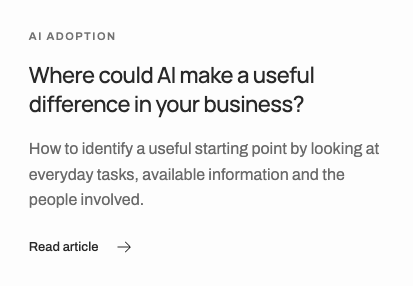
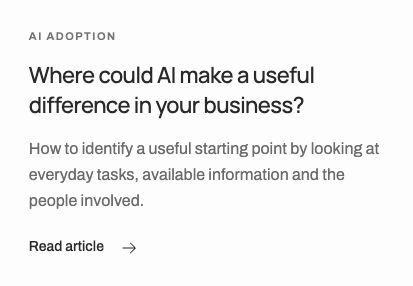
Set button labels to 14px across the prototype

diff --git a/design-library.css b/design-library.css
@@ -1,6 +1,6 @@
 *{box-sizing:border-box}html{scroll-padding:80px}body{margin:0;background:#fdfdfd;color:#292929;font:16px/1.5 Archivo,Arial,sans-serif}h1,h2,h3,p,dl,dd{margin:0}h1,h2,h3{font-family:Manrope,Arial,sans-serif}a{color:inherit}a:focus-visible,summary:focus-visible{outline:3px solid #525252;outline-offset:4px}header,main,footer{max-width:1450px;margin:auto;padding-inline:clamp(20px,5vw,84px)}header{height:84px;display:flex;align-items:center;justify-content:space-between;border-bottom:1px solid #dcdcdc}header img{width:114px}header span,.kicker,th,.role{font-size:11px;letter-spacing:1.5px;text-transform:uppercase;font-weight:600}.intro{display:grid;grid-template-columns:1.6fr 1fr;gap:40px;align-items:center;padding:64px 0 50px}.intro h1{font-size:clamp(44px,5vw,72px);line-height:1.03;letter-spacing:-3px;max-width:730px}.intro p{margin-top:18px;color:#6a6a6a;max-width:565px}.corners{display:flex;align-items:end;justify-content:end;gap:12px}.corner{width:clamp(68px,7vw,108px);text-align:center;font:12px/2 monospace}.corner i{display:block;background:#292929;height:78px}.corner:nth-child(2) i{background:#7a7a7a}.corner:nth-child(3) i{background:#dcdcdc}.tabs{position:sticky;top:0;z-index:3;background:#fdfdfdf5;border-block:1px solid #dcdcdc;display:flex;gap:32px;overflow:auto}.tabs a{padding:15px 0;text-decoration:none;white-space:nowrap;font-size:14px}.tabs a:hover{ text-decoration:underline}.block{padding:48px 0;border-bottom:1px solid #dcdcdc}.block h2{font-size:36px;letter-spacing:-1.6px;line-height:1.2;margin-bottom:24px}.palette{display:grid;grid-template-columns:repeat(6,1fr);gap:12px}.swatch{height:66px;border:1px solid #0001;border-radius:12px;margin-bottom:10px}.palette strong,.palette code,.palette small{display:block}.palette small,.note,dt{color:#666}code{font-size:12px;overflow-wrap:anywhere}.palette code{margin:4px 0}.type,.measures{width:100%;border-collapse:collapse;text-align:left}td,th{padding:12px 12px 12px 0;border-bottom:1px solid #ddd}td{font-size:14px}th{color:#666}.scroller{overflow:auto}.rule{display:inline-block;height:8px;background:#555;vertical-align:middle;margin-right:10px}.radii{display:flex;flex-wrap:wrap;gap:26px}.radius{flex:1;min-width:135px}.radius i{display:block;width:76px;height:52px;background:#eaeaea;border:1px solid #aaa;margin-bottom:12px}.radius p{font-size:14px;color:#666}.note{margin:-10px 0 22px}.cards{display:grid;grid-template-columns:repeat(3,minmax(0,1fr));gap:20px;align-items:start}.card{border:1px solid #dcdcdc;border-radius:18px;overflow:hidden}.preview{height:168px;background:#f3f3f3;display:grid;place-items:center;padding:18px;border-bottom:1px solid #ddd}.preview img{max-width:100%;max-height:132px;object-fit:contain}.spec{padding:18px}.spec h3{font-size:20px;letter-spacing:-.6px}.role{color:#666;font-size:10px;margin-bottom:5px}.spec dl{display:grid;grid-template-columns:auto 1fr;gap:6px 12px;font-size:13px;margin:14px 0}.spec dd{text-align:right;overflow-wrap:anywhere}summary,.spec a{font-size:13px;cursor:pointer}.spec a{display:inline-block;margin-top:12px}.family{font-size:23px;margin:28px 0 15px}.source{margin-top:20px}footer{padding-block:28px;color:#666;font-size:13px}@media(max-width:880px){.cards{grid-template-columns:repeat(2,minmax(0,1fr))}.palette{grid-template-columns:repeat(3,1fr)}.corners{display:none}.intro{display:block}}@media(max-width:580px){.cards{grid-template-columns:1fr}.tabs{gap:20px}.intro{padding:36px 0}.block{padding:32px 0}.palette{grid-template-columns:repeat(2,1fr)}}
 
-.tertiary-example{display:inline-flex;align-items:center;gap:10px;padding:8px 0;font:500 13px/1.6 Archivo,Arial,sans-serif;color:#292929;text-decoration:none}
+.tertiary-example{display:inline-flex;align-items:center;gap:10px;padding:8px 0;font:500 14px/1.3rem Archivo,Arial,sans-serif;color:#292929;text-decoration:none}
 .tertiary-example svg{width:16px;height:16px;margin-left:4px}
 .tertiary-example:hover{text-decoration:underline;text-underline-offset:5px}
 .block{padding-block:64px}

diff --git a/design-library.html b/design-library.html
@@ -30,6 +30,7 @@
 <tr><td data-label="Text style"><span style="font:400 16px/1.15 Archivo">Lead</span></td><td data-label="Token"><code>--type-lead</code></td><td data-label="Desktop rule">16px</td><td data-label="Mobile rule">16px</td></tr>
 <tr><td data-label="Text style"><span style="font:400 16px/1.15 Archivo">Body</span></td><td data-label="Token"><code>--type-body</code></td><td data-label="Desktop rule">16px</td><td data-label="Mobile rule">16px</td></tr>
 <tr><td data-label="Text style"><span style="font:400 14px/1.15 Archivo">Small</span></td><td data-label="Token"><code>--type-small</code></td><td data-label="Desktop rule">14px</td><td data-label="Mobile rule">14px</td></tr>
+<tr><td data-label="Text style"><span style="font:500 14px/1.15 Archivo">Button</span></td><td data-label="Token"><code>--type-button</code></td><td data-label="Desktop rule">14px</td><td data-label="Mobile rule">14px</td></tr>
 <tr><td data-label="Text style"><span style="font:400 13px/1.15 Archivo">Action</span></td><td data-label="Token"><code>--type-action</code></td><td data-label="Desktop rule">13px</td><td data-label="Mobile rule">13px</td></tr>
 <tr><td data-label="Text style"><span style="font:400 12px/1.15 Archivo">Caption</span></td><td data-label="Token"><code>--type-caption</code></td><td data-label="Desktop rule">12px</td><td data-label="Mobile rule">12px</td></tr>
 <tr><td data-label="Text style"><span style="font:400 11px/1.15 Archivo">Label</span></td><td data-label="Token"><code>--type-label</code></td><td data-label="Desktop rule">11px</td><td data-label="Mobile rule">11px</td></tr>
@@ -79,7 +80,7 @@
 <dt>Layout gap</dt><dd>28px</dd>
 </dl><details><summary>Full measurements</summary><dl>
 <dt>Margin</dt><dd>0px</dd>
-<dt>Width</dt><dd>262.109px</dd>
+<dt>Width</dt><dd>275.047px</dd>
 <dt>Height</dt><dd>48px</dd>
 <dt>Top border</dt><dd>0px none rgb(253, 253, 253)</dd>
 <dt>Grid columns</dt><dd>none</dd>
@@ -92,7 +93,7 @@
 <dt>Layout gap</dt><dd>28px</dd>
 </dl><details><summary>Full measurements</summary><dl>
 <dt>Margin</dt><dd>0px</dd>
-<dt>Width</dt><dd>200.781px / 262.109px</dd>
+<dt>Width</dt><dd>208.828px / 275.047px</dd>
 <dt>Height</dt><dd>48px</dd>
 <dt>Top border</dt><dd>1px solid rgb(41, 41, 41)</dd>
 <dt>Grid columns</dt><dd>none</dd>
@@ -105,7 +106,7 @@
 <dt>Layout gap</dt><dd>10px</dd>
 </dl><details><summary>Full measurements</summary><dl>
 <dt>Margin</dt><dd>0px</dd>
-<dt>Width</dt><dd>162.703px</dd>
+<dt>Width</dt><dd>172.766px</dd>
 <dt>Height</dt><dd>36.7969px</dd>
 <dt>Top border</dt><dd>0px none rgb(41, 41, 41)</dd>
 <dt>Grid columns</dt><dd>none</dd>
@@ -147,7 +148,7 @@
 </dl><details><summary>Full measurements</summary><dl>
 <dt>Margin</dt><dd>0px / 0px 8px</dd>
 <dt>Width</dt><dd>1512px / 374px</dd>
-<dt>Height</dt><dd>6597.62px / 11737.1px</dd>
+<dt>Height</dt><dd>6597.62px / 11682.7px</dd>
 <dt>Top border</dt><dd>0px none rgb(41, 41, 41)</dd>
 <dt>Grid columns</dt><dd>none</dd>
 </dl><code>.site-shell</code></details><a href="index.html">View source page ↗</a></div></article>

diff --git a/typography.css b/typography.css
@@ -8,7 +8,7 @@
  --type-contact:clamp(42px,4.7vw,64px);
  --type-section:clamp(32px,3.3vw,47px);
  --type-title:22px;--type-diagram:20px;--type-lead:var(--type-body);
- --type-body:16px;--type-small:14px;--type-action:13px;
+ --type-button:14px;--type-body:16px;--type-small:14px;--type-action:13px;
  --type-caption:12px;--type-label:11px;--type-category:var(--type-label);
  --leading-heading:1.13;--leading-title:1.35;--leading-body:1.7;
  --tracking-section:-1.8px;--tracking-display:-3px;
@@ -98,4 +98,14 @@ p:not(.sr-only, .activity-status), .role-detail article li, .lab-options > div:n
 .footer-location .office-email,
 .office-slide address {
   font-size: var(--type-small);
+}
+
+/* Retain the original control heights and padding as labels grow. */
+.button.primary, .button.secondary, .text-link, .insight-arrow {
+  font-size: var(--type-button);
+  line-height: 1.3rem;
+}
+.button.secondary { line-height: 1.25rem; }
+@media (max-width: 360px) {
+  .hero .actions .button { gap: 16px; }
 }
